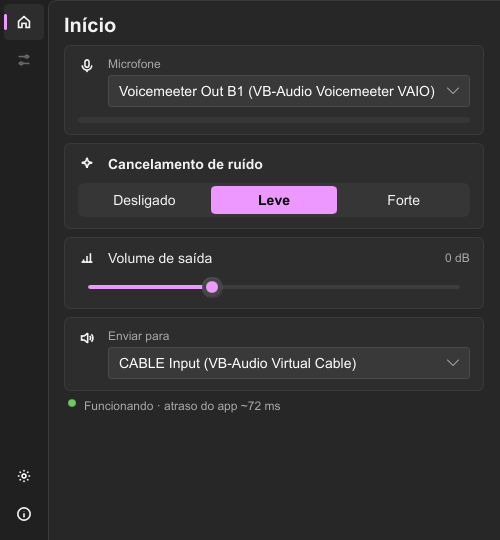
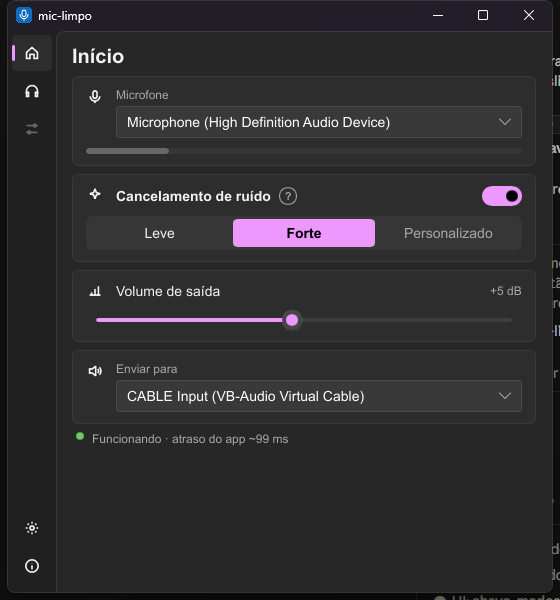
Cancelamento: chave + Leve/Forte/Personalizado com "?"
O modo "Desligado" virou uma chave no título do cartão; Personalizado
aparece desabilitado (ainda não existe) e o "?" abre uma janelinha que
explica cada opção. A chave do flyout deixou de pausar o áudio todo.
config.ini grava "cancelamento"; "modo = desligado" antigo continua lido.

diff --git a/crates/app/src/main.rs b/crates/app/src/main.rs
@@ -46,7 +46,8 @@ const MARGEM_FLYOUT: f32 = 12.0;
 /// A configuração é gravada este tempo depois da última mudança (arrastar o volume = uma gravação).
 const GRAVAR_APOS: Duration = Duration::from_millis(500);
 
-const MODOS: [Modo; 3] = [Modo::Desligado, Modo::Leve, Modo::Forte];
+/// Na ordem do seletor; o 3º (Personalizado) ainda não existe e fica desabilitado na tela.
+const MODOS: [Modo; 2] = [Modo::Leve, Modo::Forte];
 
 enum Msg {
     Ajustes(Ajustes),
@@ -98,7 +99,8 @@ struct Teste {
 struct Gravando {
     /// Motor que está copiando; se o áudio for reaberto (ou o modo mudar), a gravação é cancelada.
     ctl: Arc<Controle>,
-    modo: Modo,
+    /// `None` = cancelamento desligado.
+    modo: Option<Modo>,
     /// Atraso do modelo em amostras (tirado do limpo no fim).
     atraso: usize,
     grav: Gravacao,
@@ -354,12 +356,12 @@ where
             }
         }
     };
-    d.on_modo_escolhido(ao_mudar(|a, d, _| a.modo = MODOS[d.get_modo().clamp(0, 2) as usize]));
+    d.on_modo_escolhido(ao_mudar(|a, d, _| a.modo = MODOS[d.get_modo().clamp(0, 1) as usize]));
     d.on_ganho_mudou(ao_mudar(|a, d, _| a.ganho_db = d.get_ganho_db().round()));
     d.on_entrada_escolhida(ao_mudar(|a, d, disp| a.entrada = disp.entradas.get(d.get_entrada() as usize).cloned()));
     d.on_saida_escolhida(ao_mudar(|a, d, disp| a.saida = disp.saidas.get(d.get_saida() as usize).cloned()));
     d.on_baixa_latencia_mudou(ao_mudar(|a, d, _| a.baixa_latencia = d.get_baixa_latencia()));
-    d.on_ligado_mudou(ao_mudar(|a, d, _| a.ligado = d.get_ligado()));
+    d.on_cancelamento_mudou(ao_mudar(|a, d, _| a.ia = d.get_cancelamento()));
     d.on_tema_escolhido(|| {
         com_ui(agendar_gravacao);
     });
@@ -718,7 +720,7 @@ fn teste_gravar(ui: &mut Ui) {
     };
     let atraso = if ctl.ia() { modelo.atraso_amostras() } else { 0 };
     ctl.escutar(true);
-    ui.teste.gravando = Some(Gravando { ctl: ctl.clone(), modo: ui.pedido.modo, atraso, grav: Gravacao::nova() });
+    ui.teste.gravando = Some(Gravando { ctl: ctl.clone(), modo: modo_ativo(&ui.pedido), atraso, grav: Gravacao::nova() });
     ui.teste.info = "Fale agora…".into();
 }
 
@@ -756,7 +758,7 @@ fn teste_tick(ui: &mut Ui) {
         return;
     }
     if let Some(g) = &mut ui.teste.gravando {
-        let mesmo = ui.motor.as_ref().is_some_and(|(c, _)| Arc::ptr_eq(c, &g.ctl)) && ui.pedido.modo == g.modo;
+        let mesmo = ui.motor.as_ref().is_some_and(|(c, _)| Arc::ptr_eq(c, &g.ctl)) && modo_ativo(&ui.pedido) == g.modo;
         if !mesmo {
             teste_cancelar(ui);
             ui.teste.info = "Gravação cancelada: o modo ou o áudio mudou no meio.".into();
@@ -767,9 +769,9 @@ fn teste_tick(ui: &mut Ui) {
                 g.ctl.escutar(false);
                 g.grav.alinhar(g.atraso);
                 let modo = match g.modo {
-                    Modo::Desligado => "sem cancelamento",
-                    Modo::Leve => "no modo Leve",
-                    Modo::Forte => "no modo Forte",
+                    None => "sem cancelamento",
+                    Some(Modo::Leve) => "no modo Leve",
+                    Some(Modo::Forte) => "no modo Forte",
                 };
                 ui.teste.info = format!("Gravado {modo}. Troque entre Original e Limpo enquanto ouve.").into();
                 ui.teste.gravada = Some(Arc::new(g.grav));
@@ -871,12 +873,17 @@ fn cpu_do_processo() -> Option<Duration> {
     None
 }
 
+/// O que a IA está fazendo: `None` com o cancelamento desligado.
+fn modo_ativo(a: &Ajustes) -> Option<Modo> {
+    a.ia.then_some(a.modo)
+}
+
 fn mostrar_ajustes(d: &Dados, a: &Ajustes, disp: &Dispositivos) {
     let indice = |nomes: &[String], escolhido: &Option<String>, padrao: Option<usize>| {
         escolhido.as_deref().map_or(padrao, |t| audio::escolher(nomes, t)).map_or(-1, |i| i as i32)
     };
-    d.set_ligado(a.ligado);
-    d.set_modo(MODOS.iter().position(|m| *m == a.modo).unwrap_or(1) as i32);
+    d.set_cancelamento(a.ia);
+    d.set_modo(MODOS.iter().position(|m| *m == a.modo).unwrap_or(0) as i32);
     d.set_ganho_db(a.ganho_db);
     d.set_baixa_latencia(a.baixa_latencia);
     d.set_entrada(indice(&disp.entradas, &a.entrada, disp.padrao_entrada));

diff --git a/crates/app/src/salvo.rs b/crates/app/src/salvo.rs
@@ -10,13 +10,14 @@ use crate::controlador::{Ajustes, Modo};
 
 /// Faixa do controle de volume da janela (dB).
 const GANHO: (f32, f32) = (-12.0, 24.0);
-const MODOS: [(Modo, &str); 3] = [(Modo::Desligado, "desligado"), (Modo::Leve, "leve"), (Modo::Forte, "forte")];
+const MODOS: [(Modo, &str); 2] = [(Modo::Leve, "leve"), (Modo::Forte, "forte")];
 const TEMAS: [&str; 3] = ["sistema", "claro", "escuro"];
 
 /// O que fica de uma execução para a outra.
 #[derive(Clone, Debug, Default, PartialEq)]
 pub struct Salvo {
-    /// Só os campos da janela (ligado, modo, ganho, dispositivos, baixa latência).
+    /// Só os campos da janela (cancelamento, modo, ganho, dispositivos, baixa latência). O app
+    /// sempre abre ligado: `ligado` de versões antigas é ignorado (a janela não tem mais pausa).
     pub ajustes: Ajustes,
     /// 0 = do sistema, 1 = claro, 2 = escuro.
     pub tema: i32,
@@ -52,7 +53,7 @@ impl Salvo {
         let modo = MODOS.iter().find(|(m, _)| *m == a.modo).map_or("leve", |(_, n)| *n);
         let mut t = String::from("# mic-limpo: última configuração (o app regrava a cada mudança)\n");
         t += "# entrada/saida vazias = o padrão do Windows\n";
-        let _ = writeln!(t, "ligado = {}", sim(a.ligado));
+        let _ = writeln!(t, "cancelamento = {}", sim(a.ia));
         let _ = writeln!(t, "modo = {modo}");
         let _ = writeln!(t, "ganho_db = {}", a.ganho_db);
         let _ = writeln!(t, "entrada = {}", nome(&a.entrada));
@@ -79,7 +80,9 @@ impl Salvo {
             let Some((chave, valor)) = linha.split_once('=') else { continue };
             let (a, valor) = (&mut s.ajustes, valor.trim());
             match chave.trim() {
-                "ligado" => a.ligado = sim(valor).unwrap_or(a.ligado),
+                "cancelamento" => a.ia = sim(valor).unwrap_or(a.ia),
+                // Até 2026-10-21 "desligado" era um modo; vira a chave desligada.
+                "modo" if valor == "desligado" => a.ia = false,
                 "modo" => a.modo = MODOS.iter().find(|(_, n)| *n == valor).map_or(a.modo, |(m, _)| *m),
                 "ganho_db" => {
                     if let Some(g) = valor.replace(',', ".").parse::<f32>().ok().filter(|g| g.is_finite()) {
@@ -113,7 +116,7 @@ mod tests {
     fn ida_e_volta() {
         let s = Salvo {
             ajustes: Ajustes {
-                ligado: false,
+                ia: false,
                 modo: Modo::Forte,
                 ganho_db: -3.5,
                 entrada: Some("Microfone (Fifine K669 = USB)".into()),
@@ -135,5 +138,14 @@ mod tests {
         assert_eq!(s.ajustes.ganho_db, GANHO.1);
         assert_eq!(s.ajustes.saida, None);
         assert_eq!(s.tema, 1);
+    }
+
+    #[test]
+    fn config_antiga() {
+        let s = Salvo::de_texto("ligado = nao
+modo = desligado
+");
+        assert!(s.ajustes.ligado && !s.ajustes.ia);
+        assert_eq!(s.ajustes.modo, Modo::Leve);
     }
 }

diff --git a/crates/app/src/controlador.rs b/crates/app/src/controlador.rs
@@ -20,19 +20,16 @@ const ESPERA_MAX: Duration = Duration::from_secs(1);
 
 #[derive(Clone, Copy, Debug, Default, PartialEq, Eq)]
 pub enum Modo {
-    Desligado,
     #[default]
     Leve,
     Forte,
 }
 
 impl Modo {
-    /// Modelo do modo; `Desligado` não pede nenhum (fica o que já estiver carregado).
-    fn modelo(self) -> Option<Tipo> {
+    fn modelo(self) -> Tipo {
         match self {
-            Modo::Desligado => None,
-            Modo::Leve => Some(Tipo::Rnnoise),
-            Modo::Forte => Some(Tipo::Dfn),
+            Modo::Leve => Tipo::Rnnoise,
+            Modo::Forte => Tipo::Dfn,
         }
     }
 }
@@ -42,6 +39,8 @@ impl Modo {
 pub struct Ajustes {
     /// Desligado = sem fluxos abertos (nada roda).
     pub ligado: bool,
+    /// Cancelamento ligado. Desligado, a voz passa sem filtro e o modelo do `modo` fica carregado.
+    pub ia: bool,
     pub modo: Modo,
     pub ganho_db: f32,
     /// Parte do nome do microfone; `None` = o padrão do sistema.
@@ -61,6 +60,7 @@ impl Default for Ajustes {
         let m = Config::default();
         Self {
             ligado: true,
+            ia: true,
             modo: Modo::Leve,
             ganho_db: 0.0,
             entrada: None,
@@ -138,15 +138,14 @@ impl Controlador {
             self.ajustes = novos;
             return Ok(if self.ativo.take().is_some() { Troca::Parado } else { Troca::NaHora });
         }
-        let carregado = self.ativo.as_ref().map(|a| a.modelo);
-        let modelo = novos.modo.modelo().or(carregado).unwrap_or_default();
+        let modelo = novos.modo.modelo();
         let reabrir = match &self.ativo {
             None => true,
             Some(a) => a.modelo != modelo || !self.ajustes.mesmos_fluxos(&novos),
         };
         if !reabrir {
             let ctl = &self.ativo.as_ref().expect("checado acima").ctl;
-            ctl.set_ia(novos.modo != Modo::Desligado);
+            ctl.set_ia(novos.ia);
             ctl.set_ganho_db(novos.ganho_db);
             self.ajustes = novos;
             return Ok(Troca::NaHora);
@@ -171,7 +170,7 @@ impl Controlador {
         let cfg = Config {
             folga_ms: a.folga_ms,
             teto_ms: a.teto_ms,
-            ia: a.modo != Modo::Desligado,
+            ia: a.ia,
             modelo,
             limite_db: a.limite_db,
             ganho_db: a.ganho_db,

diff --git a/crates/ferramentas/src/rodar.rs b/crates/ferramentas/src/rodar.rs
@@ -66,30 +66,21 @@ pub fn mostrar_lista() -> Res<()> {
 
 fn executar(aj: Ajustes, sem_ia: bool, segundos: Option<u64>) -> Res<()> {
     let mut c = Controlador::novo(None);
-    let modo = aj.modo;
     let troca = c.aplicar(aj)?;
     mostrar(&c, troca);
     if sem_ia {
-        mudar(&mut c, |a| a.modo = Modo::Desligado)?;
+        mudar(&mut c, |a| a.ia = false)?;
     }
     if let Some(seg) = segundos {
         println!("Rodando por {seg} s...");
         std::thread::sleep(Duration::from_secs(seg));
     } else {
         println!("Comandos: (vazio) IA, l, f, b, g N, p, q — veja mic-limpo-dev --ajuda");
-        let mut ultimo = modo;
         for linha in std::io::stdin().lock().lines() {
             let linha = linha?;
             let mut partes = linha.split_whitespace();
             let r = match partes.next() {
-                None => mudar(&mut c, |a| {
-                    if a.modo == Modo::Desligado {
-                        a.modo = ultimo;
-                    } else {
-                        ultimo = a.modo;
-                        a.modo = Modo::Desligado;
-                    }
-                }),
+                None => mudar(&mut c, |a| a.ia = !a.ia),
                 Some("q") => break,
                 Some("l") => mudar(&mut c, |a| a.modo = Modo::Leve),
                 Some("f") => mudar(&mut c, |a| a.modo = Modo::Forte),
@@ -148,8 +139,9 @@ fn mostrar(c: &Controlador, troca: Troca) {
         );
     }
     println!(
-        "Modo: {:?} (modelo {}) | ganho {:+.1} dB | limite: {}",
+        "Modo: {:?}{} (modelo {}) | ganho {:+.1} dB | limite: {}",
         aj.modo,
+        if aj.ia { "" } else { ", IA desligada" },
         a.modelo,
         aj.ganho_db,
         aj.limite_db.map_or("nenhum".into(), |db| format!("{db} dB"))

diff --git a/docs/05-interface.md b/docs/05-interface.md
@@ -13,7 +13,7 @@
 Extras: `window-vibrancy` (Mica/Acrylic no Win, vibrancy no Mac), `tray-icon` (bandeja / barra de menu).
 
 ## Princípios de UX
-- Tela principal mínima: mic → **Cancelamento: Desligado / Leve / Forte** → saída; medidor de nível; mute.
+- Tela principal mínima: mic → **Cancelamento: chave + Leve / Forte (/ Personalizado)** → saída; medidor de nível; mute.
 - **Presets** ("Reunião", "Stream", "Jogo") em vez de botões técnicos.
 - Avançado (gate, EQ, roteamento) numa aba escondida.
 - Configuração automática de dispositivo e buffer; nunca mostrar "WDM/KS/MME".
@@ -30,13 +30,13 @@ para crescer sem poluir a tela.
 
 | Página | Conteúdo |
 |---|---|
-| Início | Microfone + medidor, Cancelamento (Desligado / Leve / Forte), Volume de saída (−12 a +24 dB), Enviar para, linha de status |
+| Início | Microfone + medidor, Cancelamento (chave + "?" + Leve / Forte / Personalizado desabilitado), Volume de saída (−12 a +24 dB), Enviar para, linha de status |
 | Teste (fone) | Gravar 5 s e ouvir com A/B Original ↔ Limpo (Fase 4, pedido do Alex) |
 | Teste (fone) | Gravar 5 s e ouvir com A/B Original ↔ Limpo (Fase 4, pedido do Alex) |
 | Efeitos | Ícone apagado ("em breve") até existir |
 | Configurações (embaixo) | Baixa latência, Iniciar com o sistema, Tema, Desempenho (atraso, CPU do app, falhas) |
 | Sobre (embaixo) | Versão, sem rede/telemetria, licença, modelo, selo do Slint (exigido pela licença) |
-| Flyout da bandeja | Liga/desliga, modo, medidor, rota e "Abrir ›" |
+| Flyout da bandeja | Chave do cancelamento, modo, medidor, rota e "Abrir ›" |
 
 ### Implementação em Slint (`crates/ui`)
 - `ui/telas.slint`: `JanelaPrincipal`, `Flyout` e `Bandeja`; estado no global `Dados` (o Rust
@@ -151,7 +151,7 @@ CABLE Input; Discord fechado; 10 s cada pelo `TotalProcessorTime` do processo; 2
   de 64 px reduzido pelo shell.
 
 ### Configuração salva (Fase 4, bloco 4)
-- `%APPDATA%\mic-limpo\config.ini` (módulo `salvo` na lib do app): ligado, modo, volume, mic,
+- `%APPDATA%\mic-limpo\config.ini` (módulo `salvo` na lib do app): cancelamento, modo, volume, mic,
   saída, baixa latência, tema e posição/tamanho da janela. Lido na partida; gravado 0,5 s depois da
   última mudança, ao fechar a janela e no Sair (temporário + troca de nome). Apagar o arquivo
   volta aos padrões.
@@ -208,6 +208,23 @@ CABLE Input; Discord fechado; 10 s cada pelo `TotalProcessorTime` do processo; 2
   a IA tirou. Mesma escala (−60 a 0 dBFS) e queda nos dois; vale para Início, Teste e flyout.
 - Custo: um `fetch_max` atômico por chamada do modelo (`Controle::tomar_pico_limpo`). +1 teste.
 - Conferido na prévia (claro e escuro) e **aprovado pelo Alex** ao vivo ("gostei, ficou bom").
+
+### Chave do cancelamento + "?" (Fase 4, pedido do Alex, 2026-10-21)
+- O antigo modo "Desligado" virou uma **chave** no título do cartão "Cancelamento de ruído"; embaixo,
+  **Leve | Forte | Personalizado** (este apagado e sem clique: ainda não existe). Desligada, a voz
+  passa sem filtro, os modos ficam apagados e o escolhido continua marcado (religar volta igual).
+- **"?"** ao lado do título abre uma janelinha (`PopupWindow`) explicando chave, Leve, Forte e
+  Personalizado; clicar em qualquer lugar fecha. Sem rótulo extra na chave: o título já diz o quê.
+- **Flyout:** a chave do topo agora é a do cancelamento (antes **pausava o áudio todo**, e o Discord
+  ficava sem mic). A pausa saiu da janela; parar tudo = "Sair" da bandeja. `ligado` continua no
+  `Controlador` (o `mic-limpo-dev rodar` usa no `p`), o app sempre abre ligado.
+- `config.ini`: `cancelamento = sim/nao` + `modo = leve/forte`. Arquivo antigo: `modo = desligado`
+  vira a chave desligada e `ligado` é ignorado (+1 teste). Com a chave desligada o modelo do modo
+  fica carregado (o Forte ocupa a RAM do DFN), para religar sem espera.
+- Conferido em release (2026-10-21, cliques simulados): janelinha cabe na janela; desligar →
+  status "sem cancelamento", clique no Leve ignorado, `cancelamento = nao` gravado; religar volta ao
+  Forte. Captura: `docs/mockups/capturas/app-inicio.png`. **Não conferido:** o flyout com três
+  opções (360 px de largura) — Alex olha ao clicar no ícone.
 
 ### Pendências de UI
 - O timer do medidor ainda acorda (sem redesenhar) com a janela minimizada.

diff --git a/docs/01-fases.md b/docs/01-fases.md
@@ -23,7 +23,8 @@ bloco 4 começado (última configuração salva). Página **Teste** (gravar e ou
 teste ele achou o **Forte ruim (às vezes corta)** e cogita trocar o Forte por um modo
 **Personalizado**. Causa achada e **corrigida** (dither no invólucro do DFN; ver `04-ia-ruido.md`) e mic
 ajustado (sem gate); Alex reouviu: "parece que corrigiu". Medidor de duas camadas (original × depois da
-IA) feito e aprovado; cartão "CPU do app" (% do PC) feito. Próximo: Alex diz se o Personalizado ainda faz falta; se o Forte voltar a picotar, medir underruns ao
+IA) feito e aprovado; cartão "CPU do app" (% do PC) feito; cancelamento virou chave + Leve | Forte | Personalizado
+(desabilitado) com "?" — Alex confere o flyout. Próximo: Alex diz se o Personalizado ainda faz falta; se o Forte voltar a picotar, medir underruns ao
 vivo (`mic-limpo-dev rodar --modelo dfn`). Depois: resto do bloco 4 — presets, iniciar com o sistema (com "iniciar só na
 bandeja") e instância única (o atalho abre um 2º app hoje). Antes: Alex clica no ícone de verdade, fala e
 confere medidor, flyout, trocas e status. Pendências que não bloqueiam: CPU com medidor animado e
@@ -157,3 +158,6 @@ medidor acorda com a janela minimizada.
 - 2026-10-21 — Cartão "CPU" virou "CPU do app": processo inteiro em % do PC (`GetProcessTimes`),
   como o Gerenciador de Tarefas. Conferido em release: Forte ~1,0–1,2 %, Leve < 0,1 %, batendo com o
   `TotalProcessorTime`. Ver `05-interface.md`.
+- 2026-10-21 — Cancelamento virou chave + Leve | Forte | Personalizado (desabilitado) com "?" que
+  explica cada um; a chave do flyout deixou de pausar o áudio todo. Config antiga continua lida
+  (+1 teste). Conferido em release com cliques simulados; flyout não conferido. Ver `05-interface.md`.

diff --git a/docs/decisoes.md b/docs/decisoes.md
@@ -56,4 +56,5 @@
 | 2026-10-21 | Contornar o atalho de −70 dBFS da libDF com dither no nosso invólucro, sem fork da libDF | ~10 linhas, sem dependência nova; resíduo ≤ −85 dBFS; custa ~25 % a mais de CPU do DFN |
 | 2026-10-21 | "Depois da IA" no mesmo medidor (camada por cima), na Início e não só num Personalizado | Serve aos três modos e mostra se o cancelamento funciona; sem ocupar mais espaço |
 | 2026-10-21 | O medidor do limpo lê antes do volume de saída | Senão subir o volume pareceria a IA tirando menos |
+| 2026-10-21 | Cancelamento = chave no título do cartão + Leve / Forte / Personalizado (desabilitado), com "?" que explica; sem pausa na janela | Escolha do Alex: desligar o filtro não deve calar o mic no Discord (a chave antiga do flyout pausava tudo); o modo fica lembrado |
 | 2026-10-21 | Cartão "CPU do app" = processo inteiro (IA + áudio + janela) em % do PC, não a IA em % de um núcleo | Bate com o Gerenciador de Tarefas e não assusta (Forte "11,7 %" de um núcleo ≈ 1 % do PC) |
